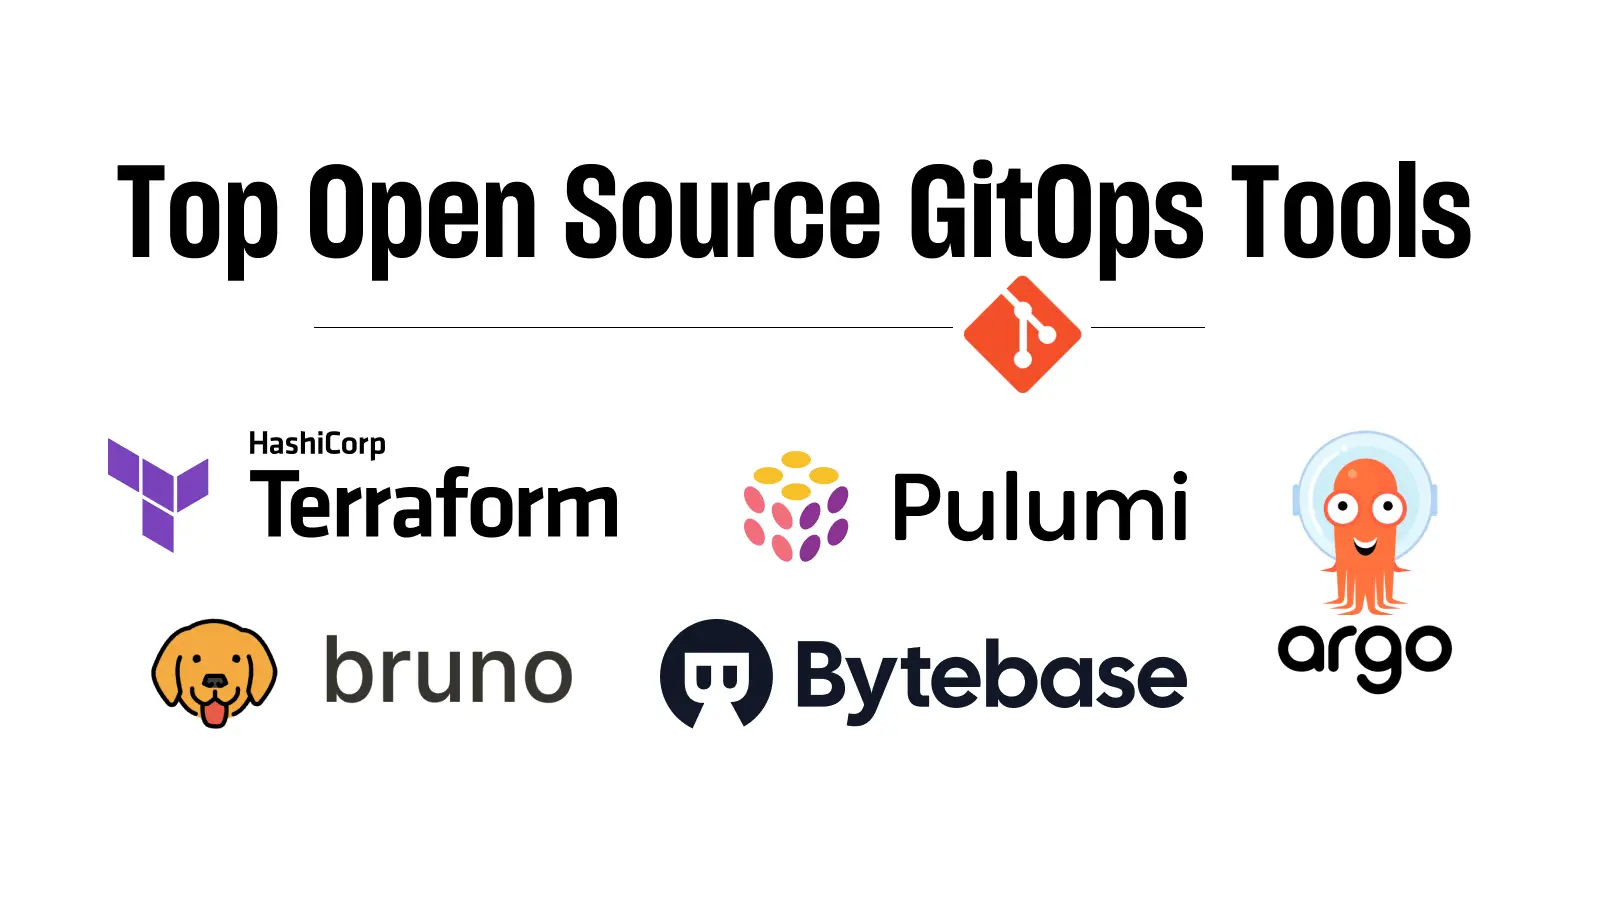
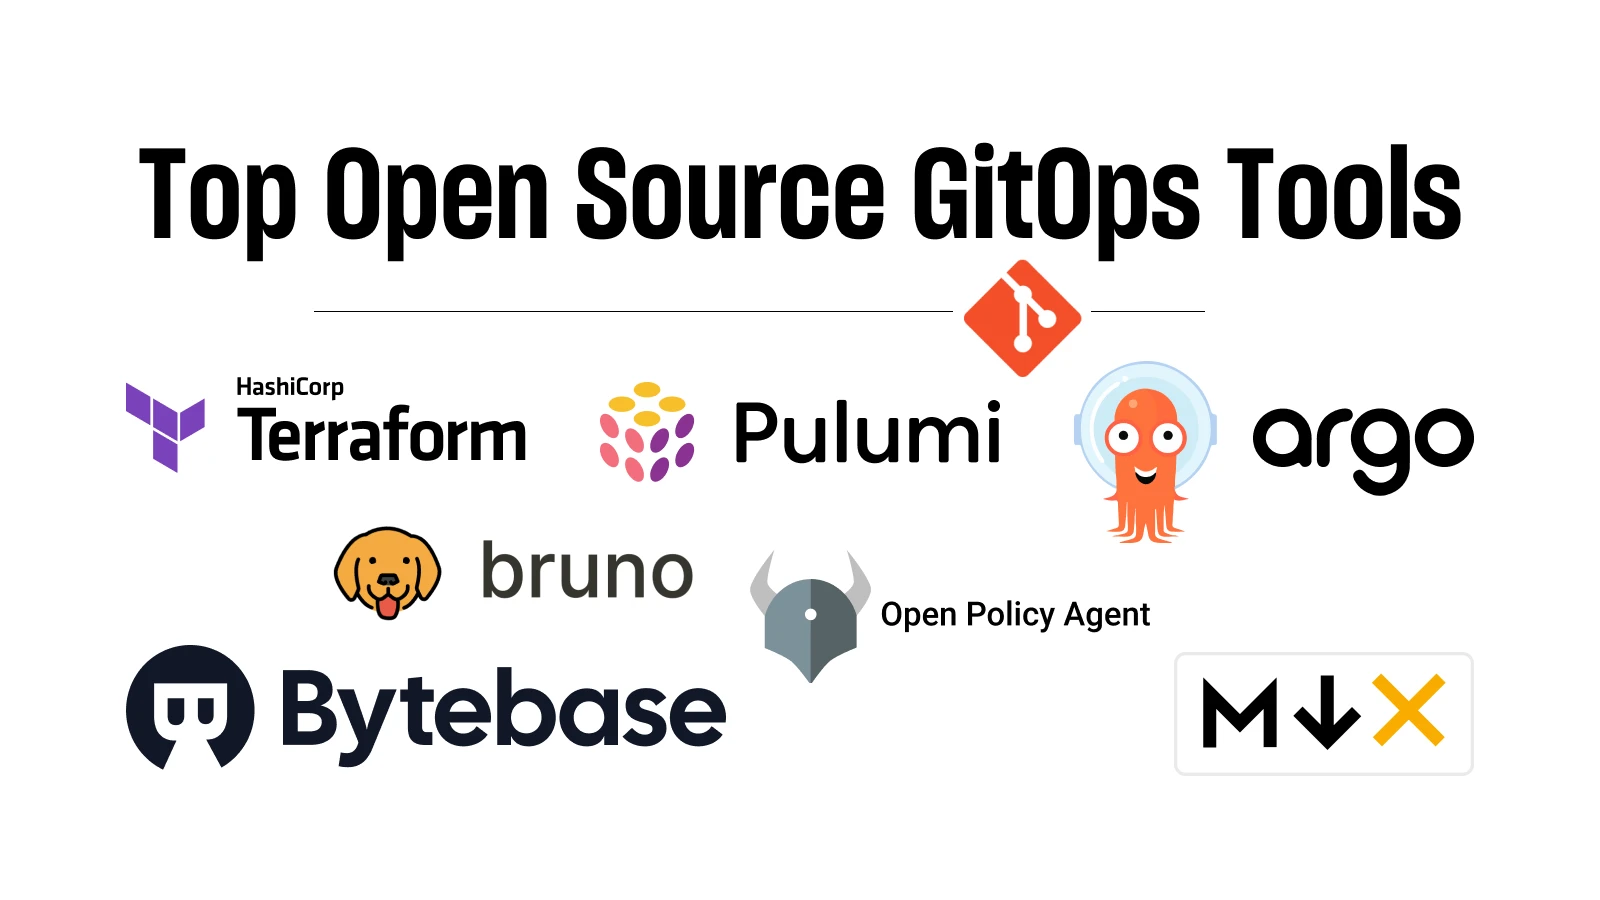
docs: update top gitops tools 2025 (#761)
* docs: update top gitops tools 2025

* Apply suggestion from @Copilot

* Apply suggestion from @Copilot

---------

Changed region(s): [[0.0625, 0.4044, 0.9375, 0.8711], [0.0625, 0.1556, 0.9375, 0.4356]]

diff --git a/content/blog/top-open-source-gitops-tools.md b/content/blog/top-open-source-gitops-tools.md
@@ -1,10 +1,9 @@
 ---
-title: Top Open Source GitOps Tools in 2024
+title: Top Open Source GitOps Tools in 2025
 author: Adela
-updated_at: 2024/03/12 19:00:00
+updated_at: 2025/07/30 12:00:00
 feature_image: /content/blog/top-open-source-gitops-tools/banner.webp
 tags: Industry
-featured: true
 description: 'In this post, we are reviewing several open-source GitOps tools.'
 ---
 
@@ -17,8 +16,10 @@ In this post, we are reviewing several open-source GitOps tools:
 - [ArgoCD](#argocd)
 - [Bruno](#bruno)
 - [Bytebase](#bytebase)
+- [OPA](#opa)
+- [mdx](#mdx)
 
-[![star-history](/content/blog/top-open-source-gitops-tools/star-history-2024312.webp)](https://star-history.com/#bytebase/bytebase&pulumi/pulumi&hashicorp/terraform&argoproj/argo-cd&usebruno/bruno&Timeline)
+[![star-history](/content/blog/top-open-source-gitops-tools/star.webp)](https://www.star-history.com/#hashicorp/terraform&pulumi/pulumi&argoproj/argo-cd&usebruno/bruno&open-policy-agent/opa&mdx-js/mdx&bytebase/bytebase&Date)
 
 ## Terraform
 
@@ -65,9 +66,25 @@ Regarding GitOps, you can use git or any version control of your choice to colla
 
 ![bruno-gitops](/content/blog/top-open-source-gitops-tools/bruno-gitops.webp)
 
+## OPA
+
+[OPA](https://github.com/open-policy-agent/opa) (Open Policy Agent) is an open-source policy engine designed to enforce policies across your stack. While OPA is not a GitOps tool itself, it can complement GitOps workflows by providing policy enforcement and compliance checks.
+
+![opa](/content/blog/top-open-source-gitops-tools/opa.webp)
+
+In the context of GitOps, OPA can be integrated into your CI/CD pipelines or Kubernetes admission controllers to validate changes to your infrastructure and applications. By enforcing policies defined in code, OPA ensures that all changes comply with your organization's standards before they are applied, enhancing the security and reliability of your GitOps processes.
+
+## MDX
+
+[MDX](https://github.com/mdx-js/mdx) is a tool that allows you to write JSX in Markdown documents, enabling the creation of interactive and dynamic content using React components within your Markdown files.
+
+![mdx](/content/blog/top-open-source-gitops-tools/mdx.webp)
+
+While MDX is not a traditional GitOps tool, it can complement GitOps workflows by enabling version-controlled documentation. This ensures that your documentation evolves alongside your code and infrastructure, maintaining alignment with the latest changes.
+
 ## Bytebase
 
-[Bytebase](https://github.com/bytebase/bytebase) is an all-in-one database DevOps and CI/CD solution. It's like GitHub/GitLab that provides a GUI workspace for developers and DBAs to collaborate on database changes.
+[Bytebase](https://github.com/bytebase/bytebase) is an all-in-one database DevSecOps and CI/CD solution. It's like GitHub/GitLab that provides a GUI workspace for developers and DBAs to collaborate on database changes.
 
 ![bb](/content/blog/top-open-source-gitops-tools/bb.webp)
 
